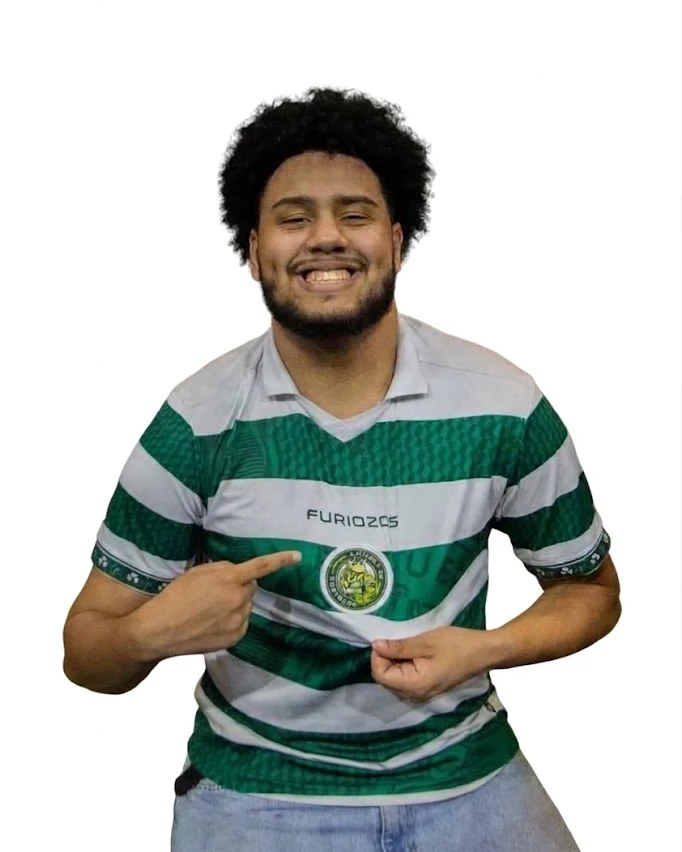
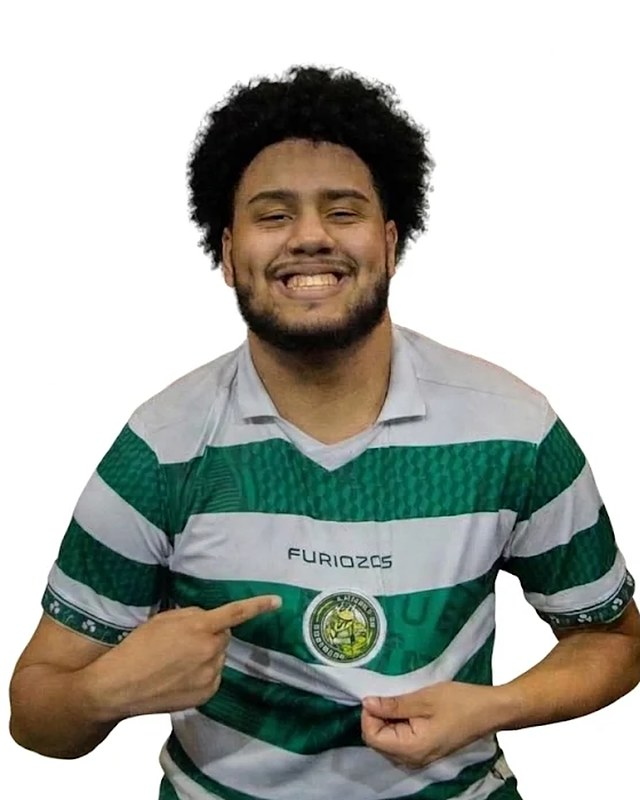
Gestao: foto do Giorgio mais aproximada (mesma escala dos outros cards)

diff --git a/public/index.html b/public/index.html
@@ -374,7 +374,7 @@
                     <div class="member-card snap-start shrink-0 w-[230px] sm:w-[260px] bg-ink border border-ash hover:border-neon/60 transition-colors duration-500 group flex flex-col">
                         <div class="relative aspect-[4/5] overflow-hidden bg-coal">
                             <span class="absolute top-3 left-3 z-10 label text-bone/80 mix-blend-difference">04 / 09</span>
-                            <img src="assets/img/giorgio.jpg?v=2" loading="lazy" onerror="this.src='https://placehold.co/640x800/1F4229/ccff00?text=Giorgio'" alt="Giorgio - Diretor de Tecnologia" class="w-full h-full object-cover object-top">
+                            <img src="assets/img/giorgio.jpg?v=3" loading="lazy" onerror="this.src='https://placehold.co/640x800/1F4229/ccff00?text=Giorgio'" alt="Giorgio - Diretor de Tecnologia" class="w-full h-full object-cover object-top">
                             <div class="member-wipe absolute inset-x-0 bottom-0 h-2/5 bg-gradient-to-t from-neon via-neon/60 to-transparent"></div>
                             <span class="absolute bottom-3 left-3 right-3 z-10 label text-ink opacity-0 group-hover:opacity-100 transition-opacity duration-500">FurioZOs · Diretoria</span>
                             <span class="absolute inset-x-0 bottom-0 h-1 bg-neon origin-left scale-x-0 group-hover:scale-x-100 transition-transform duration-500 ease-razor"></span>
